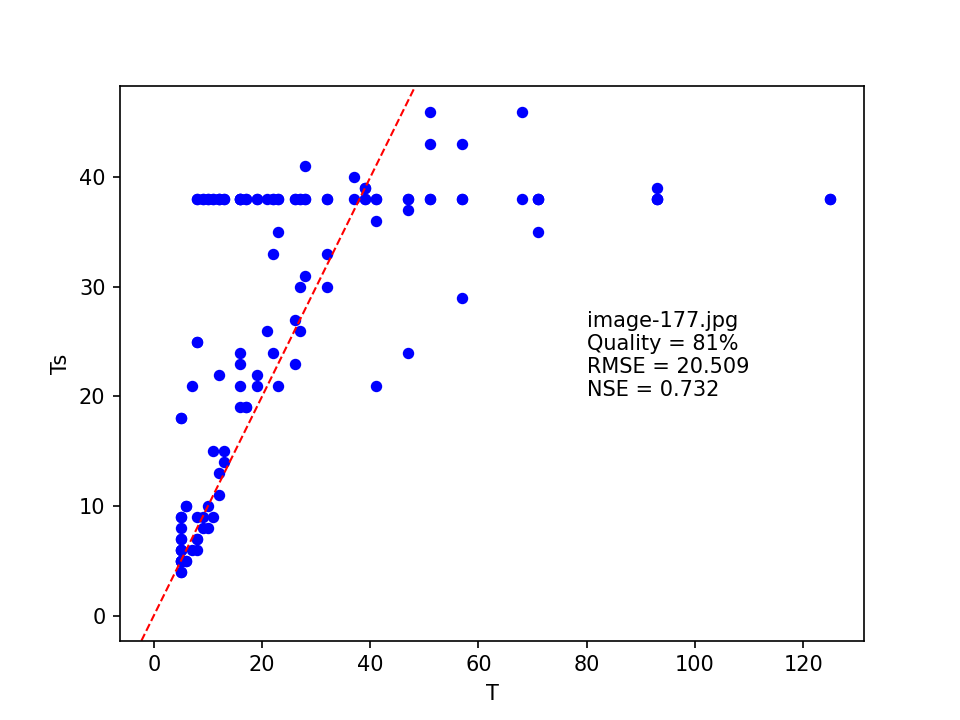
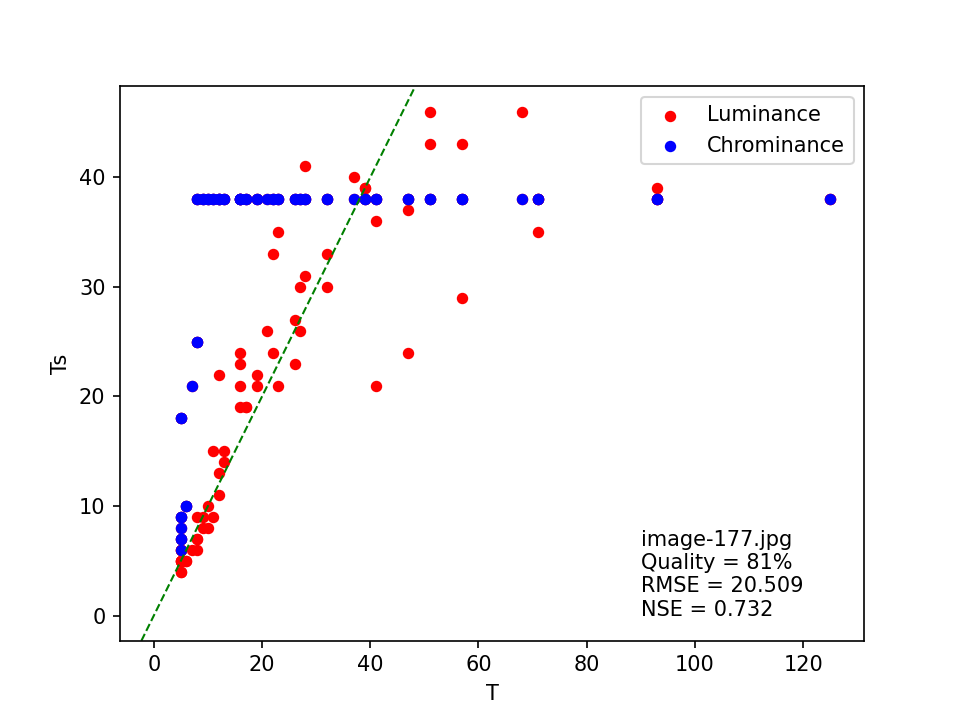
updated text, figures, links, naming

diff --git a/_site/index.html b/_site/index.html
@@ -76,7 +76,7 @@
 
 
    <div class="post-entry">
-   <h1><a href="/2024/10/29/jpeg-quality-estimation-a-different-heuristic">JPEG quality estimation&#58; direct table match method</a></h1>
+   <h1><a href="/2024/10/29/jpeg-quality-estimation-a-different-heuristic">JPEG quality estimation using a simple least squares matching method</a></h1>
    <div class="date">
     <span>29 October 2024</span>
    </div>
@@ -90,7 +90,7 @@
 
 <p>I still wasn’t entirely happy with this solution. This was partially because ImageMagick’s heuristic uses <em>aggregated</em> coefficients of the image’s quantization tables, which makes it potentially vulnerable to collisions. Another concern was, that the reasoning behind certain details of ImageMagick’s heuristic seems rather opaque (at least to me!).</p>
 
-<p>This post explores a different approach to JPEG quality estimation, which uses a straightforward comparison with “standard” JPEG quantization tables. It also proposes a measure that characterizes how similar an image’s quantization tables are to its closest “standard” tables. This could be useful as a measure of confidence in the quality estimate.</p>
+<p>This post explores a different approach to JPEG quality estimation, which is based on a straightforward comparison with “standard” JPEG quantization tables using least squares matching. It also proposes a measure that characterizes how similar an image’s quantization tables are to its closest “standard” tables. This could be useful as a measure of confidence in the quality estimate.</p>
 
 
    <div class="buttonArea">
@@ -110,7 +110,7 @@
       <summary>ExifTool</summary>
       <ul>
       
-        <li><a href="/2024/10/29/jpeg-quality-estimation-a-different-heuristic">JPEG quality estimation&#58; direct table match method</a></li>
+        <li><a href="/2024/10/29/jpeg-quality-estimation-a-different-heuristic">JPEG quality estimation using a simple least squares matching method</a></li>
       
         <li><a href="/2024/10/23/jpeg-quality-estimation-experiments-with-a-modified-imagemagick-heuristic">JPEG quality estimation&#58; experiments with a modified ImageMagick heuristic</a></li>
       
@@ -127,7 +127,7 @@
       <summary>ImageMagick</summary>
       <ul>
       
-        <li><a href="/2024/10/29/jpeg-quality-estimation-a-different-heuristic">JPEG quality estimation&#58; direct table match method</a></li>
+        <li><a href="/2024/10/29/jpeg-quality-estimation-a-different-heuristic">JPEG quality estimation using a simple least squares matching method</a></li>
       
         <li><a href="/2024/10/23/jpeg-quality-estimation-experiments-with-a-modified-imagemagick-heuristic">JPEG quality estimation&#58; experiments with a modified ImageMagick heuristic</a></li>
       
@@ -144,7 +144,7 @@
       <summary>JPEG</summary>
       <ul>
       
-        <li><a href="/2024/10/29/jpeg-quality-estimation-a-different-heuristic">JPEG quality estimation&#58; direct table match method</a></li>
+        <li><a href="/2024/10/29/jpeg-quality-estimation-a-different-heuristic">JPEG quality estimation using a simple least squares matching method</a></li>
       
         <li><a href="/2024/10/23/jpeg-quality-estimation-experiments-with-a-modified-imagemagick-heuristic">JPEG quality estimation&#58; experiments with a modified ImageMagick heuristic</a></li>
       
@@ -193,7 +193,7 @@
       <summary>ExifTool</summary>
       <ul>
       
-        <li><a href="/2024/10/29/jpeg-quality-estimation-a-different-heuristic">JPEG quality estimation&#58; direct table match method</a></li>
+        <li><a href="/2024/10/29/jpeg-quality-estimation-a-different-heuristic">JPEG quality estimation using a simple least squares matching method</a></li>
       
         <li><a href="/2024/10/23/jpeg-quality-estimation-experiments-with-a-modified-imagemagick-heuristic">JPEG quality estimation&#58; experiments with a modified ImageMagick heuristic</a></li>
       
@@ -210,7 +210,7 @@
       <summary>ImageMagick</summary>
       <ul>
       
-        <li><a href="/2024/10/29/jpeg-quality-estimation-a-different-heuristic">JPEG quality estimation&#58; direct table match method</a></li>
+        <li><a href="/2024/10/29/jpeg-quality-estimation-a-different-heuristic">JPEG quality estimation using a simple least squares matching method</a></li>
       
         <li><a href="/2024/10/23/jpeg-quality-estimation-experiments-with-a-modified-imagemagick-heuristic">JPEG quality estimation&#58; experiments with a modified ImageMagick heuristic</a></li>
       
@@ -227,7 +227,7 @@
       <summary>JPEG</summary>
       <ul>
       
-        <li><a href="/2024/10/29/jpeg-quality-estimation-a-different-heuristic">JPEG quality estimation&#58; direct table match method</a></li>
+        <li><a href="/2024/10/29/jpeg-quality-estimation-a-different-heuristic">JPEG quality estimation using a simple least squares matching method</a></li>
       
         <li><a href="/2024/10/23/jpeg-quality-estimation-experiments-with-a-modified-imagemagick-heuristic">JPEG quality estimation&#58; experiments with a modified ImageMagick heuristic</a></li>
       
@@ -274,7 +274,7 @@
       <summary>ExifTool</summary>
       <ul>
       
-        <li><a href="/2024/10/29/jpeg-quality-estimation-a-different-heuristic">JPEG quality estimation&#58; direct table match method</a></li>
+        <li><a href="/2024/10/29/jpeg-quality-estimation-a-different-heuristic">JPEG quality estimation using a simple least squares matching method</a></li>
       
         <li><a href="/2024/10/23/jpeg-quality-estimation-experiments-with-a-modified-imagemagick-heuristic">JPEG quality estimation&#58; experiments with a modified ImageMagick heuristic</a></li>
       
@@ -291,7 +291,7 @@
       <summary>ImageMagick</summary>
       <ul>
       
-        <li><a href="/2024/10/29/jpeg-quality-estimation-a-different-heuristic">JPEG quality estimation&#58; direct table match method</a></li>
+        <li><a href="/2024/10/29/jpeg-quality-estimation-a-different-heuristic">JPEG quality estimation using a simple least squares matching method</a></li>
       
         <li><a href="/2024/10/23/jpeg-quality-estimation-experiments-with-a-modified-imagemagick-heuristic">JPEG quality estimation&#58; experiments with a modified ImageMagick heuristic</a></li>
       
@@ -988,7 +988,7 @@
       <summary>ExifTool</summary>
       <ul>
       
-        <li><a href="/2024/10/29/jpeg-quality-estimation-a-different-heuristic">JPEG quality estimation&#58; direct table match method</a></li>
+        <li><a href="/2024/10/29/jpeg-quality-estimation-a-different-heuristic">JPEG quality estimation using a simple least squares matching method</a></li>
       
         <li><a href="/2024/10/23/jpeg-quality-estimation-experiments-with-a-modified-imagemagick-heuristic">JPEG quality estimation&#58; experiments with a modified ImageMagick heuristic</a></li>
       
@@ -1152,7 +1152,7 @@
       <summary>ImageMagick</summary>
       <ul>
       
-        <li><a href="/2024/10/29/jpeg-quality-estimation-a-different-heuristic">JPEG quality estimation&#58; direct table match method</a></li>
+        <li><a href="/2024/10/29/jpeg-quality-estimation-a-different-heuristic">JPEG quality estimation using a simple least squares matching method</a></li>
       
         <li><a href="/2024/10/23/jpeg-quality-estimation-experiments-with-a-modified-imagemagick-heuristic">JPEG quality estimation&#58; experiments with a modified ImageMagick heuristic</a></li>
       
@@ -1324,7 +1324,7 @@
       <summary>JPEG</summary>
       <ul>
       
-        <li><a href="/2024/10/29/jpeg-quality-estimation-a-different-heuristic">JPEG quality estimation&#58; direct table match method</a></li>
+        <li><a href="/2024/10/29/jpeg-quality-estimation-a-different-heuristic">JPEG quality estimation using a simple least squares matching method</a></li>
       
         <li><a href="/2024/10/23/jpeg-quality-estimation-experiments-with-a-modified-imagemagick-heuristic">JPEG quality estimation&#58; experiments with a modified ImageMagick heuristic</a></li>
       
@@ -1874,7 +1874,7 @@
       <ul>
     
   
-	<li><a href="/2024/10/29/jpeg-quality-estimation-a-different-heuristic">JPEG quality estimation&#58; direct table match method</a></li>
+	<li><a href="/2024/10/29/jpeg-quality-estimation-a-different-heuristic">JPEG quality estimation using a simple least squares matching method</a></li>
 	
     
           

diff --git a/_site/404.html b/_site/404.html
@@ -346,7 +346,7 @@
       <summary>ExifTool</summary>
       <ul>
       
-        <li><a href="/2024/10/29/jpeg-quality-estimation-a-different-heuristic">JPEG quality estimation&#58; direct table match method</a></li>
+        <li><a href="/2024/10/29/jpeg-quality-estimation-a-different-heuristic">JPEG quality estimation using a simple least squares matching method</a></li>
       
         <li><a href="/2024/10/23/jpeg-quality-estimation-experiments-with-a-modified-imagemagick-heuristic">JPEG quality estimation&#58; experiments with a modified ImageMagick heuristic</a></li>
       
@@ -510,7 +510,7 @@
       <summary>ImageMagick</summary>
       <ul>
       
-        <li><a href="/2024/10/29/jpeg-quality-estimation-a-different-heuristic">JPEG quality estimation&#58; direct table match method</a></li>
+        <li><a href="/2024/10/29/jpeg-quality-estimation-a-different-heuristic">JPEG quality estimation using a simple least squares matching method</a></li>
       
         <li><a href="/2024/10/23/jpeg-quality-estimation-experiments-with-a-modified-imagemagick-heuristic">JPEG quality estimation&#58; experiments with a modified ImageMagick heuristic</a></li>
       
@@ -682,7 +682,7 @@
       <summary>JPEG</summary>
       <ul>
       
-        <li><a href="/2024/10/29/jpeg-quality-estimation-a-different-heuristic">JPEG quality estimation&#58; direct table match method</a></li>
+        <li><a href="/2024/10/29/jpeg-quality-estimation-a-different-heuristic">JPEG quality estimation using a simple least squares matching method</a></li>
       
         <li><a href="/2024/10/23/jpeg-quality-estimation-experiments-with-a-modified-imagemagick-heuristic">JPEG quality estimation&#58; experiments with a modified ImageMagick heuristic</a></li>
       
@@ -1232,7 +1232,7 @@
       <ul>
     
   
-	<li><a href="/2024/10/29/jpeg-quality-estimation-a-different-heuristic">JPEG quality estimation&#58; direct table match method</a></li>
+	<li><a href="/2024/10/29/jpeg-quality-estimation-a-different-heuristic">JPEG quality estimation using a simple least squares matching method</a></li>
 	
     
           

diff --git a/_posts/2024/2024-10-29-jpeg-quality-estimation-a-different-heuristic.md b/_posts/2024/2024-10-29-jpeg-quality-estimation-a-different-heuristic.md
@@ -1,9 +1,9 @@
 ---
 layout: post
-title: JPEG quality estimation&#58; direct table match method
+title: JPEG quality estimation using a simple least squares matching method
 headImage: "/images/2024/10/bailey-1024.jpg"
 headImageAltText: "Photograph of golden retriever dog Bailey sitting at a desk in front of a laptop, bashing her paws away at the laptop's keyboard while wearing a necktie."
-description: "This post describes a simple method for estimating JPEG compression quality. It is based on a straightforward comparison of a file's quantization tables against the quantization tables from the JPEG standard. It also proposes a measure to characterize the similarity of an image's quantization tables to these standard tables, which is useful for assessing the accuracy of the quality estimate."
+description: "This post describes a simple method for estimating JPEG compression quality. It is based on a straightforward comparison of a file's quantization tables against the quantization tables from the JPEG standard using least squares matching. It also proposes a measure to characterize the similarity of an image's quantization tables to these standard tables, which is useful for assessing the accuracy of the quality estimate."
 tags: [JPEG, ImageMagick, ExifTool]
 comment_id: 92
 ---
@@ -17,7 +17,7 @@ In my [previous post]({{ BASE_PATH }}/2024/10/23/jpeg-quality-estimation-experim
 
 I still wasn't entirely happy with this solution. This was partially because ImageMagick's heuristic uses *aggregated* coefficients of the image's quantization tables, which makes it potentially vulnerable to collisions. Another concern was, that the reasoning behind certain details of ImageMagick's heuristic seems rather opaque (at least to me!).
 
-This post explores a different approach to JPEG quality estimation, which uses a straightforward comparison with "standard" JPEG quantization tables. It also proposes a measure that characterizes how similar an image's quantization tables are to its closest "standard" tables. This could be useful as a measure of confidence in the quality estimate.
+This post explores a different approach to JPEG quality estimation, which is based on a straightforward comparison with "standard" JPEG quantization tables using least squares matching. It also proposes a measure that characterizes how similar an image's quantization tables are to its closest "standard" tables. This could be useful as a measure of confidence in the quality estimate.
 
 <!-- more -->
 
@@ -25,7 +25,7 @@ This post explores a different approach to JPEG quality estimation, which uses a
 
 ImageMagick's JPEG quality heuristic is based on the "standard" quantization tables that are defined in Annex K of [the JPEG standard](http://www.w3.org/Graphics/JPEG/itu-t81.pdf). Its overall objective seems to be to match an image's quantization tables with the most similar "standard" quantization tables. Since the quality level of each of these "standard" tables is known, this then provides the quality estimate.
 
-ImageMagick's heuristic does this in an indirect (and to me somewhat opaque) way, possibly to avoid computational cost. This post explores a more straightforward approach, which simply compares the coefficients in an image's quantization tables against the corresponding coefficients in the "standard" tables[^3].
+ImageMagick's heuristic does this in an indirect (and to me somewhat opaque) way, possibly to avoid computational cost. This post explores a more straightforward approach, which simply compares the coefficients in an image's quantization tables against the corresponding coefficients in the "standard" tables, and then returns the quality level of the best match[^3].
 
 ## Scaling of standard tables to quality levels
 
@@ -303,13 +303,13 @@ Here *T<sup>i</sup>* represents the *i*th coefficient from the image's quantizat
 - For a value of 0, the standard tables are as good (or rather, bad) an approximation of the image's quantization tables as <span style="border-top: 1px solid #000000;">*T*</span>.
 - Negative values indicate an extremely poor agreement.
 
-As an example, the below scatter plot shows the quantization coefficients (*T*) from [one of out dbnl master images](https://github.com/KBNLresearch/jpeg-quality-demo/blob/main/images/dbnl/mul-master.jpg), plotted against the corresponding coefficients (*Ts*) from the best matching standard table. It also shows the line of perfect agreement (red, dashed), the quality estimate, the root mean squared error, and the Nash-Sutcliffe Efficiency:
+As an example, the below scatter plot shows the quantization coefficients (*T*) from [one of out dbnl master images](https://github.com/KBNLresearch/jpeg-quality-demo/blob/main/images/dbnl/mul-master.jpg), plotted against the corresponding coefficients (*Ts*) from the best matching standard table. It also shows the line of perfect agreement (green, dashed), the quality estimate, the root mean squared error, and the Nash-Sutcliffe Efficiency:
 
 <figure class="image">
   <img src="{{ BASE_PATH }}/images/2024/10/mul-master-scatter.png" alt="scatter plot of T against Ts for file mul-master.jpg, with Quality = 84%, RMSE = 1.057 and NSE = 0.997.">
 </figure>
 
-The plot shows that, aside from one outlier, the coefficients from the standard quantization table closely approximate the image's quantization table. This is reflected by the *NSE* value, which is close to 1. Now compare this with the plot I made for [the corresponding access image](https://github.com/KBNLresearch/jpeg-quality-demo/blob/main/images/dbnl/mul-access.jpg):
+The plot shows that, aside from one outlier in the chrominance table, the image's quantization coefficients are closely approximated by those in the standard quantization tables. This is reflected by the *NSE* value, which is close to 1. Now compare this with the plot I made for [the corresponding access image](https://github.com/KBNLresearch/jpeg-quality-demo/blob/main/images/dbnl/mul-access.jpg):
 
 <figure class="image">
   <img src="{{ BASE_PATH }}/images/2024/10/mul-access-scatter.png" alt="scatter plot of T against Ts for file mul-access.jpg, with Quality = 18%, RMSE = 6.244 and NSE = 0.999.">
@@ -333,9 +333,9 @@ Despite the different quality estimate and *RMSE* value, this visually looks lik
 
 Based on these examples, *NSE* appears to give a good indication of the fit between the image and standard quantization coefficients. This makes it useful as a measure to asses the confidence in the method's quality estimates.
 
-## Python implementation of direct table match method
+## Python implementation of least squares matching method
 
-I created [a test script with a Python implementation](https://github.com/KBNLresearch/jpeg-quality-demo/blob/main/test-jpegquality-tablematch.py) of the above procedure. Apart from the quality estimate, it also reports the corresponding *RMSE* and *NSE* values.
+I created [a test script with a Python implementation](https://github.com/KBNLresearch/jpeg-quality-demo/blob/main/jpegquality-lsm.py) of the method. Apart from the quality estimate, it also reports the corresponding *RMSE* and *NSE* values.
 
 ## Tests with Pillow and ImageMagick JPEGs
 
@@ -354,9 +354,9 @@ Here *Q<sub>enc</sub>* is the encoding quality, and *Q<sub>est</sub>(PIL)* and *
 
 ## Comparison of quality estimation methods
 
-Far more interesting is the behaviour for images that *don't* use the standard tables. The previous section already showed the results for the [dbnl master and access JPEGs](https://github.com/KBNLresearch/jpeg-quality-demo/tree/main/images/dbnl) that started this work. To test the method on a more diverse selection of images, I downloaded JPEGs from a variety of sources[^9]. I then ran them through [this test script](https://github.com/KBNLresearch/jpeg-quality-demo/blob/main/test-jpegquality-compare.py) that estimates the JPEG quality using my Python port of the original ImageMagick heuristic, the modified ImageMagick heuristic from my [previous post]({{ BASE_PATH }}/2024/10/23/jpeg-quality-estimation-experiments-with-a-modified-imagemagick-heuristic), and the direct table match method discussed here. I then identified images for which one or more of these methods came up with different results, and added a selection of them to [this dataset](https://github.com/KBNLresearch/jpeg-quality-demo/tree/main/images/misc). The following table shows the results of the script for this dataset: 
+Far more interesting is the behaviour for images that *don't* use the standard tables. The previous section already showed the results for the [dbnl master and access JPEGs](https://github.com/KBNLresearch/jpeg-quality-demo/tree/main/images/dbnl) that started this work. To test the method on a more diverse selection of images, I downloaded JPEGs from a variety of sources[^9]. I then ran them through [this test script](https://github.com/KBNLresearch/jpeg-quality-demo/blob/main/jpegquality-compare.py) that estimates the JPEG quality using my Python port of the original ImageMagick heuristic, the modified ImageMagick heuristic from my [previous post]({{ BASE_PATH }}/2024/10/23/jpeg-quality-estimation-experiments-with-a-modified-imagemagick-heuristic), and the least square matching method. I then identified images for which one or more of these methods came up with different results, and added a selection of them to [this dataset](https://github.com/KBNLresearch/jpeg-quality-demo/tree/main/images/misc). The following table shows the results of the script for this dataset: 
 
-|File|Q<br>(im)|Q<br>(im, mod)|Exact<br>(im, mod)|Q<br>(dt)|RMSE<br>(dt)|NSE<br>(dt)|
+|File|Q<br>(im)|Q<br>(im, mod)|Exact<br>(im, mod)|Q<br>(lsm)|RMSE<br>(lsm)|NSE<br>(lsm)|
 |:--|:--|:--|:--|:--|:--|:--|
 |[psgradient.jpg](https://github.com/KBNLresearch/jpeg-quality-demo/blob/main/images/misc/psgradient.jpg)|92|92|False|93|4.438|0.747|
 |[hopper_16bit_qtables.jpg](https://github.com/KBNLresearch/jpeg-quality-demo/blob/main/images/misc/hopper_16bit_qtables.jpg)|na|1|False|13|0.795|1.0|
@@ -370,13 +370,13 @@ Far more interesting is the behaviour for images that *don't* use the standard t
 |[tapedeck1.jpg](https://github.com/KBNLresearch/jpeg-quality-demo/blob/main/images/misc/tapedeck1.jpg)|90|90|False|93|0.753|0.992|
 |[tapedeck2.jpg](https://github.com/KBNLresearch/jpeg-quality-demo/blob/main/images/misc/tapedeck2.jpg)|92|92|False|95|0.421|0.996|
 
-Here *Q(im)* is the quality estimate from the original ImageMagick heuristic, *Q(im), mod* is the quality estimate from the modified ImageMagick heuristic, *Q(dt)* is the quality estimate from the direct table match method. In addition *Exact(im, mod)* is the "exactness" indicator of the modified ImageMagick heuristic, and *RMSE(dt)* and *NSE(dt)* are the root mean squared error and Nash-Sutcliffe Efficiency values reported by the direct table match method, respectively.
+Here *Q(im)* is the quality estimate from the original ImageMagick heuristic, *Q(im), mod* is the quality estimate from the modified ImageMagick heuristic, *Q(ls)* is the quality estimate from the least squares matching method. In addition *Exact(im, mod)* is the "exactness" indicator of the modified ImageMagick heuristic, and *RMSE(lsm)* and *NSE(lsm)* are the root mean squared error and Nash-Sutcliffe Efficiency values reported by the least squares matching method, respectively.
 
 Below I highlight some of the more interesting results.
 
 ### [jpeg444.jpg](https://github.com/KBNLresearch/jpeg-quality-demo/blob/main/images/misc/jpeg444.jpg)
 
-For this image, both the original and modified ImageMagick heuristics estimate the quality at 60%, with no "exact" match. By contrast, the direct table match method came up with a quality of 75%, with *RMSE* and *NSE* indicating a perfect match with the standard JPEG quantization tables. This is comfirmed by plotting the coefficients from the quantization tables against the standard coefficients:
+For this image, both the original and modified ImageMagick heuristics estimate the quality at 60%, with no "exact" match. By contrast, the least squares matching method came up with a quality of 75%, with *RMSE* and *NSE* indicating a perfect match with the standard JPEG quantization tables. This is comfirmed by plotting the coefficients from the quantization tables against the standard coefficients:
 
 <figure class="image">
   <img src="{{ BASE_PATH }}/images/2024/10/jpeg444-scatter.png" alt="scatter plot of T against Ts for file jpeg444.jpg, with Quality = 75%, RMSE = 0.0 and NSE = 1.0.">
@@ -387,7 +387,7 @@ I double-checked the result by uploading the image to FotoForensics, which [also
 
 ### [image-98.jpg](https://github.com/KBNLresearch/jpeg-quality-demo/blob/main/images/misc/image-98.jpg)
 
-Here, the quality is estimated at 63% by both the original and modified ImageMagick heuristics, with an "exact" match. However, the direct table match method results in a much higher (81%) quality, but the relatively low *NSE* value of 0.732 indicates a poor fit to the standard JPEG tables. This is confirmed by the scatter plot of *T* vs *T<sub>s</sub>* :
+Here, the quality is estimated at 63% by both the original and modified ImageMagick heuristics, with an "exact" match. However, the least squares matching method results in a much higher (81%) quality, but the relatively low *NSE* value of 0.732 indicates a poor fit to the standard JPEG tables. This is confirmed by the scatter plot of *T* against *T<sub>s</sub>* :
 
 <figure class="image">
   <img src="{{ BASE_PATH }}/images/2024/10/image-98-scatter.png" alt="scatter plot of T against Ts for file image-98.jpg, with Quality = 81%, RMSE = 25.509 and NSE = 0.732.">
@@ -397,19 +397,19 @@ The [FotoForensics result](https://fotoforensics.com/analysis.php?id=3f271d3383e
 
 ### [hopper_16bit_qtables.jpg](https://github.com/KBNLresearch/jpeg-quality-demo/blob/main/images/misc/hopper_16bit_qtables.jpg)
 
-This image is interesting for a number of reasons. ImageMagick's original heuristic fails to come up with a quality estimate, while the modified ImageMagick heuristic returns a 1% estimate. Meanwhile, the direct table match estimates the quality at 13%. Here's the corresponding scatter plot:
+This image is interesting for a number of reasons. ImageMagick's original heuristic fails to come up with a quality estimate, while the modified ImageMagick heuristic returns a 1% estimate. Meanwhile, the least squares matching method estimates the quality at 13%. Here's the corresponding scatter plot:
 
 <figure class="image">
   <img src="{{ BASE_PATH }}/images/2024/10/hopper_16bit_qtables-scatter.png" alt="scatter plot of T against Ts for file hopper_16bit_qtables., with Quality = 13%, RMSE = 0.795 and NSE = 1.0.">
 </figure>
 
-The coefficients in the JPEG quantization tables are usually stored as 8-bit unsigned integers, which means the highest possible value is 255. This particular image uses 16-bit values instead, which we can see from the range of *T* values in the plot, which goes all the way up to 380! ImageMagick's heuristic is unable to deal with this[^10], which results (for the modified version) in an unrealistically low value. The direct table match method explicitly checks for coefficients outside the 8-bit range, and adjusts its calculations accordingly. Its quality estimate corresponds to [the assessment by FotoForensics](https://fotoforensics.com/analysis.php?id=079bf03e3187859bf2bdf0b28c341d3b75ad8442.2044).
+The coefficients in the JPEG quantization tables are usually stored as 8-bit unsigned integers, which means the highest possible value is 255. This particular image uses 16-bit values instead, which we can see from the range of *T* values in the plot, which goes all the way up to 380! ImageMagick's heuristic is unable to deal with this[^10], which results (for the modified version) in an unrealistically low value. The least squares matching method explicitly checks for coefficients outside the 8-bit range, and adjusts its calculations accordingly. Its quality estimate corresponds to [the assessment by FotoForensics](https://fotoforensics.com/analysis.php?id=079bf03e3187859bf2bdf0b28c341d3b75ad8442.2044).
 
 One detail that caught my attention is the non-zero *RMSE* value, which at first sight seems at odds with the reported *NSE* value of 1.0. On closer inspection, it turned out that *NSE* is actually marginally smaller than 1 here, but this is obscured by rounding the reported values at 3 decimals[^11].
 
 ### [sample-jpg-files-sample-4.jpg](https://github.com/KBNLresearch/jpeg-quality-demo/blob/main/images/misc/sample-jpg-files-sample-4.jpg)
 
-Both ImageMagick heuristics estimate the quality of this image at 78% with an "exact" match, whereas the direct table match method gives a much higher estimate of 89% (with quite a poor fit with the standard tables). The corresponding [FotoForensics estimate](https://fotoforensics.com/analysis.php?id=9271e2a81a4105d7bc326c76bac043c6265e4d8e.63379) is marginally different from this at 88%, but still very close. For completeness here's its scatter plot (again):
+Both ImageMagick heuristics estimate the quality of this image at 78% with an "exact" match, whereas the least squares matching method gives a much higher estimate of 89% (with quite a poor fit with the standard tables). The corresponding [FotoForensics estimate](https://fotoforensics.com/analysis.php?id=9271e2a81a4105d7bc326c76bac043c6265e4d8e.63379) is marginally different from this at 88%, but still very close. For completeness here's its scatter plot (again):
 
 <figure class="image">
   <img src="{{ BASE_PATH }}/images/2024/10/sample-jpg-files-sample-4-scatter.png" alt="scatter plot of T against Ts for file sample-jpg-files-sample-4.jpg, with Quality = 89%, RMSE = 12.294 and NSE = 0.734.">
@@ -417,11 +417,11 @@ Both ImageMagick heuristics estimate the quality of this image at 78% with an "e
 
 ## Conclusions from this comparison
 
-Even though the tests presented here are quite limited, the differences that can occur between the quality estimates by the direct table method and the ImageMagick heuristics are quite striking. What surprised me in particular, was that even for JPEGs that use the standard quantization tables, ImageMagick's heuristic may still provide quality estimates that are quite inaccurate. Of course, a major limitation here is the lack of reliable "ground truth" in the form of known quality settings at the time the test images were created. However, the good agreement between the quality estimates of the direct table match method and the FotoForensics service does inspire some confidence in the methodology.
+Even though the tests presented here are quite limited, the differences that can occur between the quality estimates by the least squares matching method and the ImageMagick heuristics are quite striking. What surprised me in particular, was that even for JPEGs that use the standard quantization tables, ImageMagick's heuristic may still provide quality estimates that are quite inaccurate. Of course, a major limitation here is the lack of reliable "ground truth" in the form of known quality settings at the time the test images were created. However, the good agreement between the quality estimates of the least squares matching method and the FotoForensics service does inspire some confidence in the methodology.
 
 ## Performance
 
-One potential concern about the direct table match method might be that it is computationally not very efficient: for each image, the analysis typically involves 200 comparisons of 64-element tables. Out of interest I did a little performance test using [this collection of 700 JPEGs](https://github.com/yavuzceliker/sample-images). I analyzed these files with my scripts with the Python ports of the original and modified ImageMagick heuristics, and the direct table match method.
+One potential concern about the least squares matching method might be that it is computationally not very efficient: for each image, the analysis typically involves 200 comparisons of 64-element tables. Out of interest I did a little performance test using [this collection of 700 JPEGs](https://github.com/yavuzceliker/sample-images). I analyzed these files with my scripts with the Python ports of the original and modified ImageMagick heuristics, and the least squares matching method.
 
 For each script run, I first ran this command to empty the cache memory:
 
@@ -432,7 +432,7 @@ sudo sysctl vm.drop_caches=3
 I then ran each script like this:
 
 ```
-(time python3 ./jpeg-quality-demo/test-jpegquality-tablematch.py ./sample-images/images/*.jpg > sample-images.txt) 2> time-tablematch.txt
+(time python3 ./jpeg-quality-demo/jpegquality-lsm.py ./sample-images/images/*.jpg > sample-images.txt) 2> time-lsm.txt
 ```
 
 The "time" command results in 3 performance metrics, The most important of which are:
@@ -444,15 +444,15 @@ Below table shows these metrics for the three scripts[^5]:
 
 |Method|time (real)|time (user)|
 |:--|:--|:--|
-|im_original|0m7,624s|0m3,321s|
-|im_modified|0m7,215s|0m2,968s|
-|tablematch|0m13,134s|0m8,673s|
+|im original|0m7,624s|0m3,321s|
+|im modified|0m7,215s|0m2,968s|
+|lsm|0m13,134s|0m8,673s|
 
-This shows the direct table match method is almost 3 times slower than the ImageMagick heuristics in terms of "user" time, and about 2 times slower in terms of "real" time. This translates to an average processing time of 0.01 to 0.02 s per file. Therefore, the reduced performance shouldn't be any problem in practical terms.
+This shows the least squares matching method is almost 3 times slower than the ImageMagick heuristics in terms of "user" time, and about 2 times slower in terms of "real" time. This translates to an average processing time of 0.01 to 0.02 s per file. Therefore, the reduced performance shouldn't be any problem in practical terms.
 
 ## Final thoughts
 
-I originally wrote the direct table match code in an attempt to better understand JPEG quality estimation, and to make a more informed assesment of how ImageMagick's heuristic works. Based on the tests described here, I think I ended up with something that might actually be quite useful, and preferrable to either the original or modified ImageMagick heuristic.
+I originally wrote the least squares matching method code in an attempt to better understand JPEG quality estimation, and to make a more informed assesment of how ImageMagick's heuristic works. Based on the tests described here, I think I ended up with something that might actually be quite useful, and preferrable to either the original or modified ImageMagick heuristic.
 
 By itself the method isn't in any way novel, as it's basically just an implementation (I think?) of the "Approximate Quantization Tables" quality estimation method as described by Neil Krawetz. I expect many other, very similar implementations exist that I'm simply not aware of, particularly in the digital forensics domain. This makes it all the more surprising that these apparently haven't made it to popular image processing and analysis software like ImageMagick. The use of the Nash-Sutcliffe Efficiency as a measure of confidence in the quality estimate *may* be somewhat novel, but I wouldn't be surprised if other (and possibly better) methods for this exist.
 
@@ -461,11 +461,11 @@ As always, any feedback and suggestions in response to this post are very welcom
 ## Scripts and test data
 
 - [jpeg-quality-demo Github repository](https://github.com/KBNLresearch/jpeg-quality-demo) - Github repo with all scripts and test data that were used in this analysis. 
-- [test-jpegquality-tablematch.py](https://github.com/KBNLresearch/jpeg-quality-demo/blob/main/test-jpegquality-tablematch.py) - Python implementation of the direct table match method.
+- [jpegquality-lsm.py](https://github.com/KBNLresearch/jpeg-quality-demo/blob/main/jpegquality-lsm.py) - Python implementation of the least squares matching method.
 
 ### Important note on Python Pillow version
 
-The Python implementation of the direct table match method (and most of the other scripts as well) requires a recent version of the [Pillow Imaging Library](https://python-pillow.org/). This is because around the release of version 8.3 (I think) Pillow changed the order in which it returns the values inside JPEG quantization tables ([details here](https://github.com/python-pillow/Pillow/pull/4989)). All scripts in the repo expect the current/new behaviour, and they will give *very* wrong results when used with older Pillow versions!
+The Python implementation of the least squares matching method (and most of the other scripts as well) requires a recent version of the [Pillow Imaging Library](https://python-pillow.org/). This is because around the release of version 8.3 (I think) Pillow changed the order in which it returns the values inside JPEG quantization tables ([details here](https://github.com/python-pillow/Pillow/pull/4989)). All scripts in the repo expect the current/new behaviour, and they will give *very* wrong results when used with older Pillow versions!
 
 [^3]: From its description I think this corresponds to the "Approximate Quantization Tables" method that is mentioned on (and used by) [Neil Krawetz's FotoForensics site](https://fotoforensics.com/tutorial.php?tt=estq) (but the site doesn't provide any details about the implementation).
 
@@ -479,4 +479,4 @@ The Python implementation of the direct table match method (and most of the othe
 
 [^11]: In this case the numerator of the *NSE* equation (the *SSE* value) was 81, and the denominator (the variance of the quantization coefficients) 7743557. This results in *NSE* = 1 - (81/7743557) = 0.99998954, which is reported as 1.0 when rounded to 3 decimals. Meanwhile *RMSE* = &#8730;(81/128) = 0.795.
 
-[^12]: See also [this post on StackOverflow](https://stackoverflow.com/a/29216609/1209004).]
+[^12]: See also [this post on StackOverflow](https://stackoverflow.com/a/29216609/1209004).
